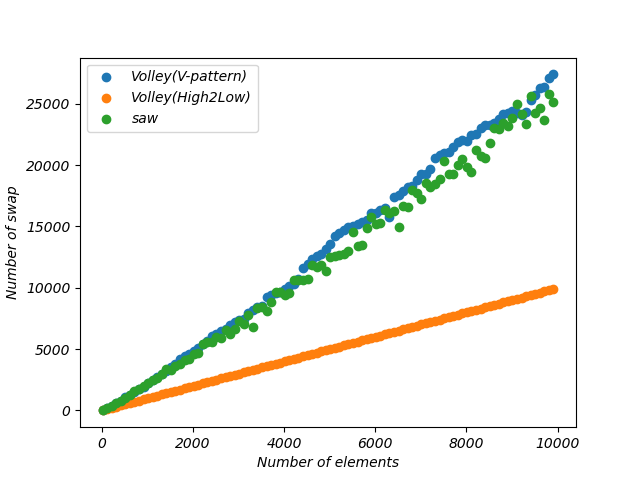
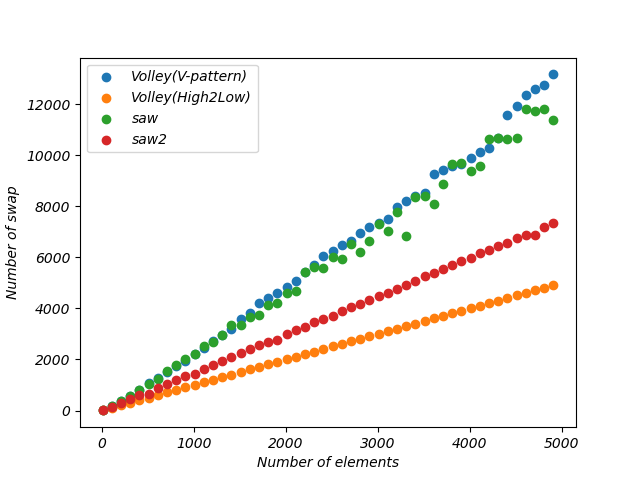
Add files via upload

diff --git a/sort_algrithm.py b/sort_algrithm.py
@@ -78,17 +78,28 @@ def saw_array(n):
         a.append(n-(i-1))
     return a
 
+def saw2_array(n):
+    a=[]
+    for i in range(0, n, 2):
+        a.append(i)
+    for i in range(0, n, 2):
+        a.append(i)
+    return a
+
 cnt_v = []
 cnt_v2 = []
 cnt_s = []
+cnt_s2 = []
 dep_v = []
 dep_v2 = []
 dep_s = []
+dep_s2 = []
 volly = []
 volly2 = []
 saw = []
+saw2 = []
 val = []
-for i in range(10, 10000, 100):
+for i in range(10, 5000, 100):
     val.append(i)
     a = voly_array(i)
     past = time()
@@ -114,10 +125,19 @@ for i in range(10, 10000, 100):
     maxdepth = 0
     a = saw_array(i)
     dep_s.append(quick(a, 0, len(a)-1, 0)[1])
+    a = saw2_array(i)
+    past = time()
+    cnt_s2.append(quick(a, 0, len(a)-1, 0)[0])
+    now = time()
+    saw2.append(now-past)
+    maxdepth = 0
+    a = saw2_array(i)
+    dep_s2.append(quick(a, 0, len(a)-1, 0)[1])
     
 plt.scatter(val, volly, label="Volley(V-pattern)")
 plt.scatter(val, volly2, label="Volley(High2Low)")
-plt.scatter(val, saw, label="saw")
+plt.scatter(val, saw, label="saw(roop_high-low)")
+plt.scatter(val, saw2, label="saw(2nd)")
 plt.legend()
 plt.xlabel("Number of elements")
 plt.ylabel("Time(s)")
@@ -127,6 +147,7 @@ plt.show()
 plt.scatter(val, cnt_v, label="Volley(V-pattern)")
 plt.scatter(val, cnt_v2, label="Volley(High2Low)")
 plt.scatter(val, cnt_s, label="saw")
+plt.scatter(val, cnt_s2, label="saw2")
 plt.legend()
 plt.xlabel("Number of elements")
 plt.ylabel("Number of swap")
@@ -136,6 +157,7 @@ plt.show()
 plt.scatter(val, dep_v, label="Volley(V-pattern)")
 plt.scatter(val, dep_v2, label="Volley(High2Low)")
 plt.scatter(val, dep_s, label="saw")
+plt.scatter(val, dep_s2, label="saw")
 plt.legend()
 plt.xlabel("Number of elements")
 plt.ylabel("Number of depth")
